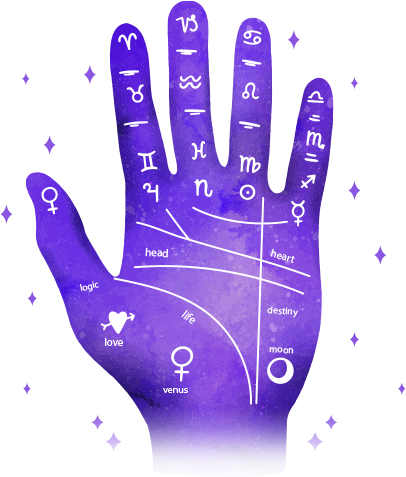
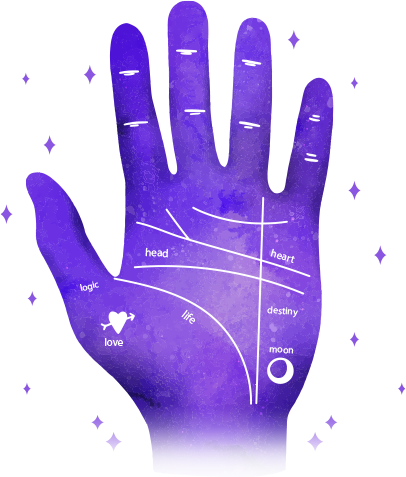
update

diff --git a/index.html b/index.html
@@ -1,11 +1,12 @@
 <!DOCTYPE html>
 <html lang="en">
 <head>
-    <title>Astrology</title>
+  <title>Kinh Dịch - Tử Vi</title>
     <meta charset="UTF-8">
     <meta http-equiv="X-UA-Compatible" content="IE=edge">
-    <meta name="viewport" content="width=device-width, initial-scale=1.0">
-
+    <meta name="apple-mobile-web-app-capable" content="yes">
+    <meta name="apple-mobile-web-app-status-bar-style" content="black-translucent">
+    <meta name="viewport" content="viewport-fit=cover, user-scalable=no, width=device-width, initial-scale=1, maximum-scale=1">
 
     <!-- stylesheet -->
     <link rel="stylesheet" href="assets/css/bootstrap.css">
@@ -26,53 +27,15 @@
             <div class="as_info_detail">
                 <div class="container">
                     <div class="row">
-                        <div class="col-lg-6">
+                        <div class="col-lg-12 text-center">
                             <ul>
                                 <li>
                                     <a href="javascript:;">
-                                        <div class="as_infobox">
-                                            <span class="as_infoicon">
-                                                <svg xmlns="http://www.w3.org/2000/svg" xmlns:xlink="http://www.w3.org/1999/xlink" preserveAspectRatio="xMidYMid" width="17" height="17" viewBox="0 0 17 17" style="&#10;">
[1 lines of base64/hex data omitted]
-                                                  </svg>
-                                            </span>
-                                        +1800 326 3264
-                                        </div>
-                                    </a>
-                                </li>
-                                <li>
-                                    <a href="javascript:;">
-                                        <div class="as_infobox">
-                                            <span class="as_infoicon">
-                                                <svg xmlns="http://www.w3.org/2000/svg" xmlns:xlink="http://www.w3.org/1999/xlink" preserveAspectRatio="xMidYMid" width="18" height="13" viewBox="0 0 18 13">
[1 lines of base64/hex data omitted]
-                                                  </svg>
-                                                  
-                                            </span>
-                                        support@website.com
+                                        <div class="as_infobox" id="random_quote">
                                         </div>
                                     </a>
                                 </li>
                             </ul>
-                        </div>
-                        <div class="col-lg-6">
-                            <div class="as_right_info">
-                                <div class="as_search_wrapper">
-                                        <input type="text" name="" class="form-control" id="" placeholder="Search...">
-                                        <a href="#">
-                                            <svg xmlns="http://www.w3.org/2000/svg" xmlns:xlink="http://www.w3.org/1999/xlink" preserveAspectRatio="xMidYMid" width="15" height="15" viewBox="0 0 15 15">
[1 lines of base64/hex data omitted]
-                                              </svg>
-                                              
-                                        </a>
-                                </div>
-                                <div class="as_user">
-                                    <a href="login.html">
-                                        <img src="assets/images/profile.jpg" alt="">
-                                        <span class="as_add_user">+</span>
-                                    </a>
-                                </div>
-                            </div>
                         </div>
                     </div>
                 </div>
@@ -82,7 +45,7 @@
                     <div class="col-lg-3 col-md-3 col-sm-4 col-xs-6">
                         <div class="as_logo">
                             <a href="index.html">
-                                <img src="assets/images/logo.svg" alt="">
+                                <!--<img src="assets/images/logo.svg" alt="">-->
                             </a>
                         </div>
                     </div>
@@ -94,30 +57,21 @@
                                 </span>
                                 <div class="as_menu">
                                     <ul>
-                                        <li><a href="index.html" class="active">home</a></li>
-                                        <li><a href="about.html">about us</a></li>
-                                        <li><a href="javascript:;">pages</a>
+                                        <li><a href="index.html" class="active">Trang chủ</a></li>
+                                        <li><a href="about.html">Sứ mệnh</a></li>
+                                        <li><a href="javascript:;">Xem vận</a>
                                             <ul class="as_submenu">
-                                                <li><a href="service.html">service</a></li>
-                                                <li><a href="service_single.html">service single</a></li>
-                                                <li><a href="appointments.html">appointment</a></li>
-                                                <li><a href="pricing.html">pricing plans</a></li>
-                                                <li><a href="error.html">404</a></li>
+                                                <li><a href="service.html">Lá số tử vi</a></li>
                                             </ul>
                                         </li>
-                                        <li><a href="javascript:;">shop</a>
+                                        <li><a href="javascript:;">Cửa hàng</a>
                                             <ul class="as_submenu">
-                                                <li><a href="shop.html">Shop</a></li>
-                                                <li><a href="shop_single.html">Shop Single</a></li>
+                                                <li><a href="shop.html">Dịch vụ</a></li>
+                                                <li><a href="shop_single.html">Merch</a></li>
                                             </ul>
                                         </li>
-                                        <li><a href="javascript:;">blog</a>
-                                            <ul class="as_submenu">
-                                                <li><a href="blog.html">blog</a></li>
-                                                <li><a href="blog_single.html">blog single</a></li>
-                                            </ul>
+                                        <li><a href="javascript:;">Bài viết</a>
                                         </li>
-                                        <li><a href="contact.html">contact</a></li>
                                     </ul>
                                 </div>
                             </div>
@@ -135,7 +89,7 @@
                                                     <img src="assets/images/p1.jpg" class="img-responsive">
                                                 </div>
                                                 <div class="as_cart_info">
-                                                    <a href="#">Yellow Sapphire</a>
+                                                    <a href="#">Bùa hộ mạng</a>
                                                     <p>1 X $20.00</p>
                                                     <a href="javascript:;" class="as_cart_remove"><i class="fa fa-trash"></i></a>
                                                 </div>
@@ -145,7 +99,7 @@
                                                     <img src="assets/images/p2.jpg" class="img-responsive">
                                                 </div>
                                                 <div class="as_cart_info">
-                                                    <a href="#">yantra</a>
+                                                    <a href="#">Luận giải lá số tử vi</a>
                                                     <p>1 X $10.00</p>
                                                     <a href="javascript:;" class="as_cart_remove"><i class="fa fa-trash"></i></a>
                                                 </div>
@@ -153,11 +107,11 @@
                                         </ul>
                                     </div>
                                     <div class="as_cart_total">
-                                        <p>total<span>$30.00</span></p>
+                                        <p>Tổng<span>$30.00</span></p>
                                     </div>
                                     <div class="as_cart_btn">
-                                        <button type="button" class="as_btn">view cart</button>
-                                        <button type="button" class="as_btn">checkout</button>
+                                        <button type="button" class="as_btn">Giỏ hàng</button>
+                                        <button type="button" class="as_btn">Thanh toán</button>
                                     </div>
                                 </div>
                             </div>
@@ -193,7 +147,7 @@
                     </div>
                     <div class="col-lg-6 col-md-12 col-sm-12">
                         <div class="as_banner_img text-center">
-                            <img src="assets/images/hand_bg.png" alt="" class="img-responsive as_hand_bg">
+                            <img src="assets/images/bat-quai.png" alt="" class="img-responsive as_hand_bg">
                             <img src="assets/images/hand.png" alt="" class="img-responsive as_hand">
                         </div>
                     </div>
@@ -214,7 +168,7 @@
                     <div class="col-lg-6 col-md-6">
                         <div class="as_aboutimg text-right">
                             <img src="assets/images/about.jpg" alt="" class="img-responsive">
-                            <span class="as_play"><img src="assets/images/play.png" alt=""></span>
+                            <span class="as_play"><!--<img src="assets/images/play.png" alt="">--></span>
                         </div> 
                     </div>
                     <div class="col-lg-6 col-md-6">

diff --git a/assets/css/style.css b/assets/css/style.css
@@ -396,7 +396,7 @@ a,a:hover,a:focus,a:visited{
 }
 .as_info_detail {
     border-bottom: 1px solid rgb(255 255 255 / 10%);
-    padding: 20px 0;
+    padding: 5px 0;
 }
 .as_search_wrapper {
     max-width: 415px;
@@ -732,6 +732,7 @@ a,a:hover,a:focus,a:visited{
     -webkit-animation: spin 12s infinite linear;
     -moz-animation: spin 12s infinite linear;
     display: inline-block;
+    opacity: 0.3;
 }
 .as_banner_img .as_hand{
     position: absolute;
@@ -3503,7 +3504,7 @@ form.d_block {
     .as_info_detail {
         justify-content: center;
         flex-direction: column;
-        padding: 10px;
+	display: none;
     }
     .as_right_info {
         padding-left: 5px;

diff --git a/assets/js/custom.js b/assets/js/custom.js
@@ -268,9 +268,17 @@ $(document).ready(function(){
     $(this).closest('.quantity').find('input').val(num);
   }) 
 
-  
-
-  
+  var quotes = new Array(
+    "Vô Cực sinh Thái Cực",
+    "Thái Cực sinh Lưỡng Nghi",
+    "Lưỡng Nghi sinh Tứ tượng",
+    "Tứ Tượng sinh Bát Quái",
+    "Bát Quái sinh vô lượng"
+  );
+  const rndInt = Math.floor(Math.random() * 6) + 1;
+  $(function() {
+    $("#random_quote").text(quotes[rndInt]);
+  });  
   
 })
 $(window).on('load',function(){
